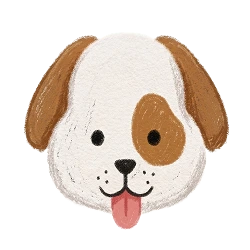
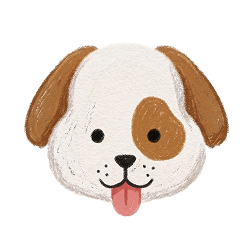
Fix: 로그인 분기 처리 및 프로필창 동물 수정 (#70)

diff --git a/src/pages/Profile.jsx b/src/pages/Profile.jsx
@@ -6,14 +6,15 @@ import GuideModal from "../components/modal/GuideModal";
 import PopTransition from "../components/common/PopTransition.jsx";
 import api from "../api/axios.js";
 
+import dog from "../assets/images/profile/dog.webp";
+import cat from "../assets/images/profile/cat.webp";
+import hamster from "../assets/images/profile/hamster.webp";
 import bear from "../assets/images/profile/bear.webp";
 import monkey from "../assets/images/profile/monkey.webp";
-import cat from "../assets/images/profile/cat.webp";
-import chick from "../assets/images/profile/chick.webp";
 import dinosaur from "../assets/images/profile/dinosaur.webp";
-import dog from "../assets/images/profile/dog.webp";
-import horse from "../assets/images/profile/horse.webp";
 import rabbit from "../assets/images/profile/rabbit.webp";
+import deer from "../assets/images/profile/deer.webp";
+import chick from "../assets/images/profile/chick.webp";
 
 const Profile = () => {
   const navigate = useNavigate();
@@ -49,14 +50,15 @@ const Profile = () => {
   }, []);
 
   const ANIMAL_MAP = {
-    monkey: monkey,
-    rabbit: rabbit,
-    horse: horse,
-    dinosaur: dinosaur,
-    chick: chick,
-    bear: bear,
-    cat: cat,
     dog: dog,
+    cat: cat,
+    hamster: hamster,
+    bear: bear,
+    monkey: monkey,
+    dinosaur: dinosaur,
+    rabbit: rabbit,
+    deer: deer,
+    chick: chick,
   };
 
   return (

diff --git a/src/pages/Login.jsx b/src/pages/Login.jsx
@@ -37,13 +37,16 @@ const Login = () => {
     const phase = getPhase();
 
     if (phase === "PREPARING") {
-      setModalContent("오전 11시에 오픈돼요! 🦁");
-      setIsNotTimeOpen(true);
+      if (isComplete) await getMatchResult();
+      else {
+        setModalContent("오전 11시 오픈입니다!");
+        setIsNotTimeOpen(true);
+      }
       return;
     }
 
     if (phase === "AGGREGATING") {
-      setModalContent("매칭 결과를 집계 중이에요! 🦁");
+      setModalContent("매칭 결과 집계 중이에요!");
       setIsNotTimeOpen(true);
       return;
     }
@@ -51,7 +54,7 @@ const Login = () => {
     if (phase === "RESULT") {
       if (isComplete) await getMatchResult();
       else {
-        setModalContent("오늘은 참여하지 않으셨어요. 내일 다시 만나요! 🦁");
+        setModalContent(`오늘 참여한 기록이 없어요!\n내일 다시 만나요~`);
         setIsNotTimeOpen(true);
       }
       return;

diff --git a/src/constants/serviceTime.js b/src/constants/serviceTime.js
@@ -1,8 +1,8 @@
 // 서비스 시간에 따른 단계 반환 함수
 export const getPhase = () => {
   const h = new Date().getHours();
-  if (h >= 10 && h < 11) return "PREPARING"; // 오픈 준비
+  if (h >= 0 && h < 11) return "PREPARING"; // 오픈 준비
   if (h >= 11 && h < 17) return "SURVEY"; // 설문
   if (h >= 17 && h < 18) return "AGGREGATING"; // 집계 중
-  return "RESULT"; // 결과 (18시~익일 9:59)
+  return "RESULT"; // 결과 (18시~24시)
 };

diff --git a/src/components/modal/NotTimeModal.jsx b/src/components/modal/NotTimeModal.jsx
@@ -66,7 +66,7 @@ const ModalBox = styled.div`
   height: 412px;
   min-height: 412px;
   border-radius: 12px;
-  padding: 32px 64px;
+  padding: 32px 32px;
   box-shadow: 0 4px 12px rgba(0, 0, 0, 0.15);
 
   display: flex;
@@ -105,6 +105,7 @@ const Content = styled.p`
   color: #555;
   text-align: center;
   line-height: 1.5;
+  white-space: pre-line;
 `;
 
 const ButtonWrapper = styled.div`

diff --git a/src/pages/SelectPages.jsx b/src/pages/SelectPages.jsx
@@ -25,7 +25,6 @@ export default function SelectPage({ title, button, topinfo, bottominfo }) {
     setLoading(true);
     try {
       const payload = buildPayload(answers);
-      console.log("전송 데이터:", payload); // 테스트 (나중에 지울거임)
 
       const res = await api.post("/api/onboarding/submit", payload);
 
